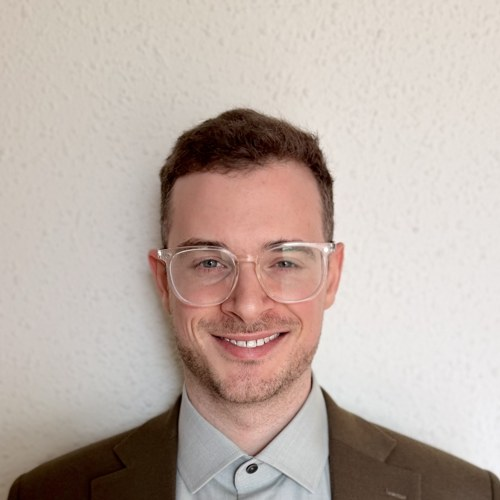
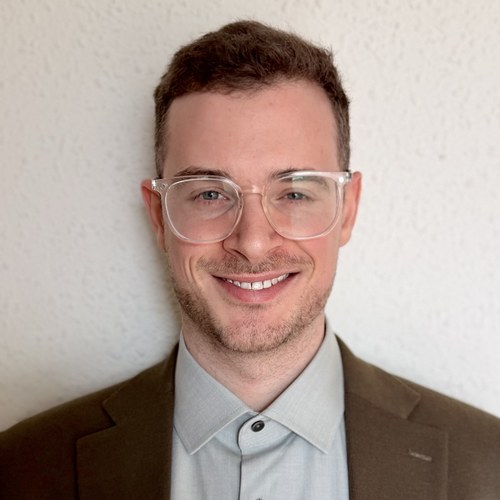
fixed sidebar pic and follow button

diff --git a/_includes/author-profile.html b/_includes/author-profile.html
@@ -21,7 +21,7 @@
   </div>
 
   <div class="author__urls-wrapper">
-    <button class="btn btn--inverse">Follow</button>
+    <button class="btn btn--inverse">Contact me</button>
     <ul class="author__urls social-icons">
       <!-- Font Awesome icons / Biographic information  -->
       {% if author.location %}